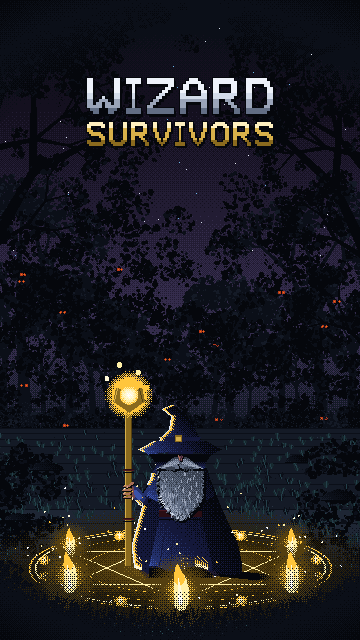
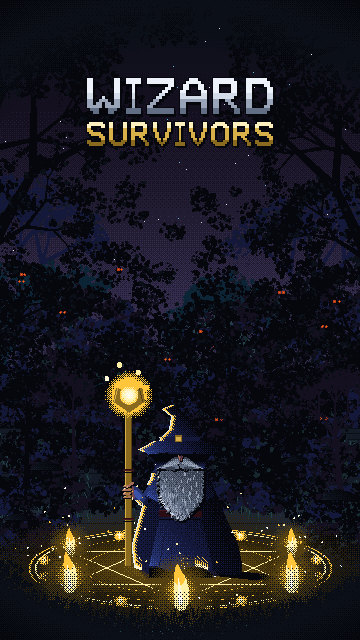
art: ship the thicket, filled in until the lawn is gone
Thicket becomes the default: undergrowth 430, roots 250, and a creep pass
of 560 clumps and six saplings reaching 176px down onto the grass. The
flagstone band that used to run clean across the frame behind him is gone,
and the wood runs continuously from the horizon down to the ward. He is
standing in a hole in it rather than in a clearing with a wood behind it.

The reason the first fill attempt did nothing to the middle of the band:
the creep depth exponent was inverted. t = random ** 0.6 pushes t toward
1, which puts most clumps at the BOTTOM of the reach - down where the ward
exclusion ellipse then throws them away - so the centre stayed bare no
matter how high the count went, and only the sides filled. It is a
parameter now, cbias, and above 1 it pushes clumps up against the treeline
where there is no keep-out to reject them.

current, rank and walls keep their old values and are one word away.

Changed region(s): [[0.0, 0.2188, 1.0, 0.875]]

diff --git a/tools/art/splash.py b/tools/art/splash.py
@@ -76,7 +76,7 @@ def eyes_in_the_dark(c, y0, y1, n, seed, ramp=None, avoid=None):
             c.set(x + ox, y, ramp[0])
 
 # ---------------------------------------------------------------- 1. VIGIL
-def vigil(beard="mane-spear", ward=None, ground=None, wood="current"):
+def vigil(beard="mane-spear", ward=None, ground=None, wood="thicket"):
     """Wide, quiet, bottom-heavy. You, from behind, inside a ring of lit wards, in the beat
     before it starts. Sells preparation rather than the fight - and it is the only screen
     where the player character is the largest thing on frame."""
@@ -113,18 +113,23 @@ def vigil(beard="mane-spear", ward=None, ground=None, wood="current"):
                         leaf=150, lr=(6, 20), ly=(300, 140),
                         roots=0, rank=0, side=90, side_in=128, canopy_d=1.25,
                         near=[(-14, 470, 176, 71), (378, 442, 164, 83)],
-                        vary=False, creep=0, reach=0, saplings=[]),
-        "thicket": dict(under=340, ur=(9, 27), uy=(388, 42), ud=1.7,
-                        leaf=280, lr=(8, 24), ly=(296, 150),
-                        roots=170, rank=0, side=115, side_in=124, canopy_d=1.3,
+                        vary=False, creep=0, reach=0, saplings=[],
+                        cedge=0.55, cnear=64, cfar=148, keep=(172, 84, 570), cbias=0.6),
+        "thicket": dict(under=430, ur=(9, 28), uy=(384, 46), ud=1.75,
+                        leaf=340, lr=(8, 25), ly=(292, 156),
+                        roots=250, rank=0, side=150, side_in=116, canopy_d=1.32,
                         near=[(-14, 470, 176, 71), (378, 442, 164, 83)],
-                        vary=True, creep=150, reach=98,
-                        saplings=[(54, 468, 96, 58, 211), (302, 460, 88, 54, 223)]),
+                        vary=True, creep=560, reach=176,
+                        cedge=1.0, cnear=152, cfar=74, keep=(168, 70, 572), cbias=1.9,
+                        saplings=[(26, 486, 112, 68, 211), (74, 470, 92, 56, 223),
+                                  (124, 458, 76, 46, 251), (238, 464, 84, 52, 257),
+                                  (292, 478, 100, 60, 263), (340, 492, 118, 72, 269)]),
         "rank": dict(under=210, ur=(7, 21), uy=(404, 32), ud=1.45,
                      leaf=200, lr=(7, 22), ly=(298, 146),
                      roots=95, rank=11, side=100, side_in=126, canopy_d=1.25,
                      near=[(-14, 470, 176, 71), (378, 442, 164, 83)],
                      vary=True, creep=115, reach=84,
+                     cedge=0.55, cnear=64, cfar=148, keep=(172, 84, 570), cbias=0.6,
                      saplings=[(42, 458, 84, 52, 227), (320, 472, 92, 56, 229)]),
         "walls": dict(under=180, ur=(6, 19), uy=(400, 34), ud=1.35,
                       leaf=205, lr=(7, 21), ly=(298, 146),
@@ -132,6 +137,7 @@ def vigil(beard="mane-spear", ward=None, ground=None, wood="current"):
                       near=[(4, 500, 190, 71), (356, 470, 178, 83),
                             (-34, 424, 150, 91), (400, 404, 142, 97)],
                       vary=True, creep=185, reach=116,
+                      cedge=0.55, cnear=64, cfar=148, keep=(172, 84, 570), cbias=0.6,
                       saplings=[(36, 480, 104, 62, 233), (328, 488, 98, 58, 239),
                                 (86, 452, 66, 40, 241)]),
     }
@@ -251,11 +257,20 @@ def vigil(beard="mane-spear", ward=None, ground=None, wood="current"):
     # him off; leaving a corridor open down the centre is what makes the sides read as closing
     # IN rather than as a hedge parked behind him.
     for _ in range(wd["creep"]):
-        t = rg.random() ** 0.6                     # bunched at the treeline, trailing down
+        # cbias BELOW 1 pushes t toward 1, which puts most clumps at the BOTTOM of the reach -
+        # down where the ward exclusion then throws them away, so the middle of the band stays
+        # bare however high the count goes. Above 1 pushes them up against the treeline, which
+        # is above the keep-out and is the only way the band actually fills across.
+        t = rg.random() ** wd["cbias"]
         gy2 = 430 + int(t * wd["reach"])
-        edge = abs(rg.random() * 2.0 - 1.0) ** 0.55
-        gx = 180 + (1 if rg.random() < 0.5 else -1) * int(edge * (64 + t * 148))
-        if ((gx - 180) / 172.0) ** 2 + ((gy2 - 570) / 84.0) ** 2 < 1.0:
+        # cedge below 1 biases toward the frame edges and leaves a corridor down the middle;
+        # at 1 the spread is flat and the band fills right across. That one exponent is the
+        # difference between "the wood is closing in from the sides" and "the wood has taken
+        # the clearing back".
+        edge = abs(rg.random() * 2.0 - 1.0) ** wd["cedge"]
+        gx = 180 + (1 if rg.random() < 0.5 else -1) * int(edge * (wd["cnear"] + t * wd["cfar"]))
+        ex, ey, ec = wd["keep"]
+        if ((gx - 180) / float(ex)) ** 2 + ((gy2 - ec) / float(ey)) ** 2 < 1.0:
             continue                               # the ward keeps its clearance
         br = rg.randrange(6, 21)
         td, tl = tone(NEAR_TONES, (OCC, M["stone"][4]))

diff --git a/.ai/title-screen.md b/.ai/title-screen.md
@@ -54,29 +54,39 @@ Draw order in `vigil()` is load-bearing; three of the four bugs found while buil
 order bugs. Back to front:
 
 1. Sky gradient (`vramp` 0→430) and starfield.
-2. **Far wood** — eighteen trees on the horizon line at y=436, in `stone.shade` against the sky.
-   The tree nearest the middle is the shortest of the set, so nothing crowds the figure.
+2. **Far wood** — eighteen trees on the horizon line at y=436. Each tree, each clump of
+   undergrowth and each leaf mass picks its own pair of near-blacks from `FAR_TONES` or
+   `NEAR_TONES`. A dark mass painted in one colour is a hole; six near-blacks that differ by a
+   few points of *hue* read as depth, because the eye takes the variation as things at different
+   distances. Far is a step lighter and cooler than near — atmospheric perspective, the only
+   depth cue left once everything in shot is silhouette.
 3. Eyes in the dark (y 360–424) and ground mist.
 4. Ground: flagstone bands that widen toward the camera, from y=428.
 5. **Grass**, thickening toward the camera and thinned inside the ward circle so the runes still
    read through it; then **brush banked up both edges** of the clearing floor.
-6. Boulders.
-7. **Near wood** — two trees at the frame edges in flat `occ`, mostly cropped. These do most of
+6. **The creep** — foliage growing out of the treeline down onto the lawn, plus six saplings
+   rooted on it. This has to be its own pass *here*, after the floor: the flagstones are drawn
+   over the whole treeline block, so anything placed below y=428 up there is silently destroyed,
+   which is why raising the treeline counts could never make anything encroach. It is the only
+   foliage in the frame actually standing on the grass, and it keeps a hard exclusion ellipse
+   around the ward.
+7. Boulders.
+8. **Near wood** — two trees at the frame edges in flat `occ`, mostly cropped. These do most of
    the atmospheric work: they put the viewer *inside* the wood looking out at the clearing.
-8. **Overhead canopy** — six boughs reaching in from off the top corners, then a band of loose
+9. **Overhead canopy** — six boughs reaching in from off the top corners, then a band of loose
    leaf mass from y=0 to y=344 filling the sky around them. `CLEAR` in `vigil()` is the single
    hole left in it, and it exists to hold the wordmark: **move the wordmark and you must move
    `CLEAR` with it.**
-9. **The ward circle**, on the `WARD` ramp — the brightest thing in the frame after the orb, and
+10. **The ward circle**, on the `WARD` ramp — the brightest thing in the frame after the orb, and
    the reason the composition works. There are no candles on it any more: nine orange flames
    around a gold-white ward put two warm light sources in the same place competing for one job.
-10. The figure.
-11. Motes lifting off the ring, after him so some drift in front.
-12. **Foreground grass and brush** in flat occlusion across the bottom strip, held out of an
+11. The figure.
+12. Motes lifting off the ring, after him so some drift in front.
+13. **Foreground grass and brush** in flat occlusion across the bottom strip, held out of an
     ellipse around the ward. It is the nearest thing in the frame so it gets no light at all,
     and a plane the figure stands behind is what turns a backdrop into somewhere he is.
-13. Vignette.
-14. Wordmark.
+14. Vignette.
+15. Wordmark.
 
 ## The knobs
 
@@ -88,7 +98,9 @@ order bugs. Back to front:
 | The hole in the canopy | `CLEAR = (cx, cy, rx, ry)` in `vigil()`; its lobing lives in `canopy()` |
 | Overhead boughs | the bough list in `vigil()` — origin, angle, length and width per limb |
 | Grass density and reach | the two grass loops in `vigil()`; one blade shape in `grass()` |
-| How enclosed the clearing feels | the brush loops in `vigil()` — treeline, then both floor edges |
+| **How closed-in the wood is** | `wood=` on `vigil()`. `thicket` **ships**; `rank`, `walls` and `current` are one word away. `python tools/art/woods.py` renders all four |
+| How far the wood comes down the lawn | `creep`, `reach`, `cbias`, `cedge` and `keep` in the chosen preset. **`cbias` above 1 pushes clumps up against the treeline; below 1 pushes them down into the ward keep-out, where they are thrown away and the middle of the band stays bare however high `creep` goes** |
+| How enclosed the clearing feels | the brush loops in `vigil()` — treeline, floor edges, then the creep |
 | How dark it is under the brim | `_hood()` in `hero.py`, and the `_hat_shadow()` call at the foot of `_face()` — move the skip rect in `wizard_hero` with them |
 | **Which beard he wears** | `beard=` on `hero.wizard_hero`, and the default on `splash.vigil()`. Eight styles; `python tools/art/beards.py` renders them all into the screen |
 | Hand and finger size and tone | `_fingers` / `_arm` in `hero.py`; tones from the `flesh` ramp |
